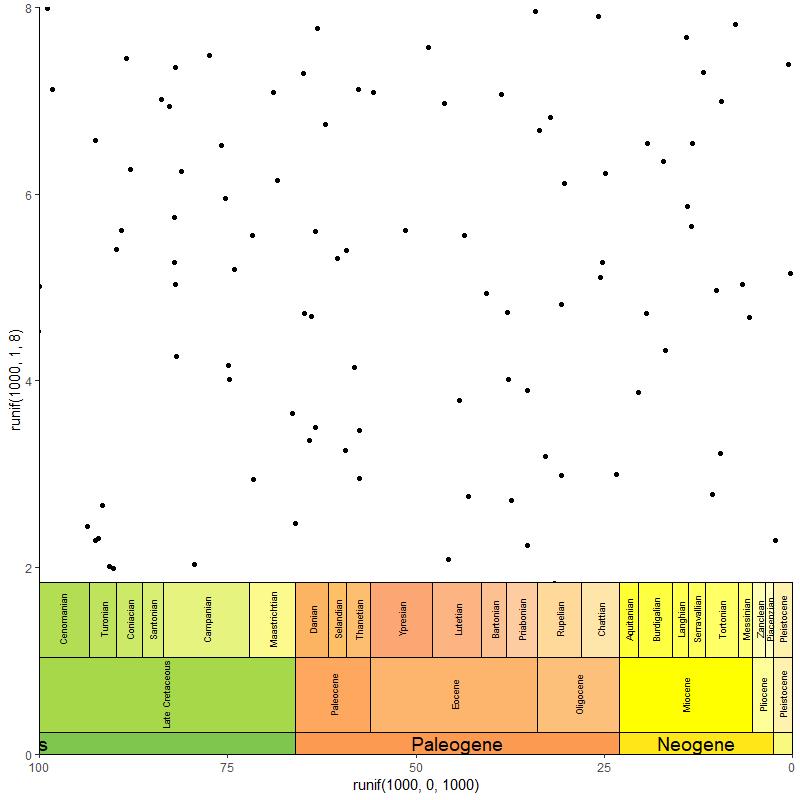
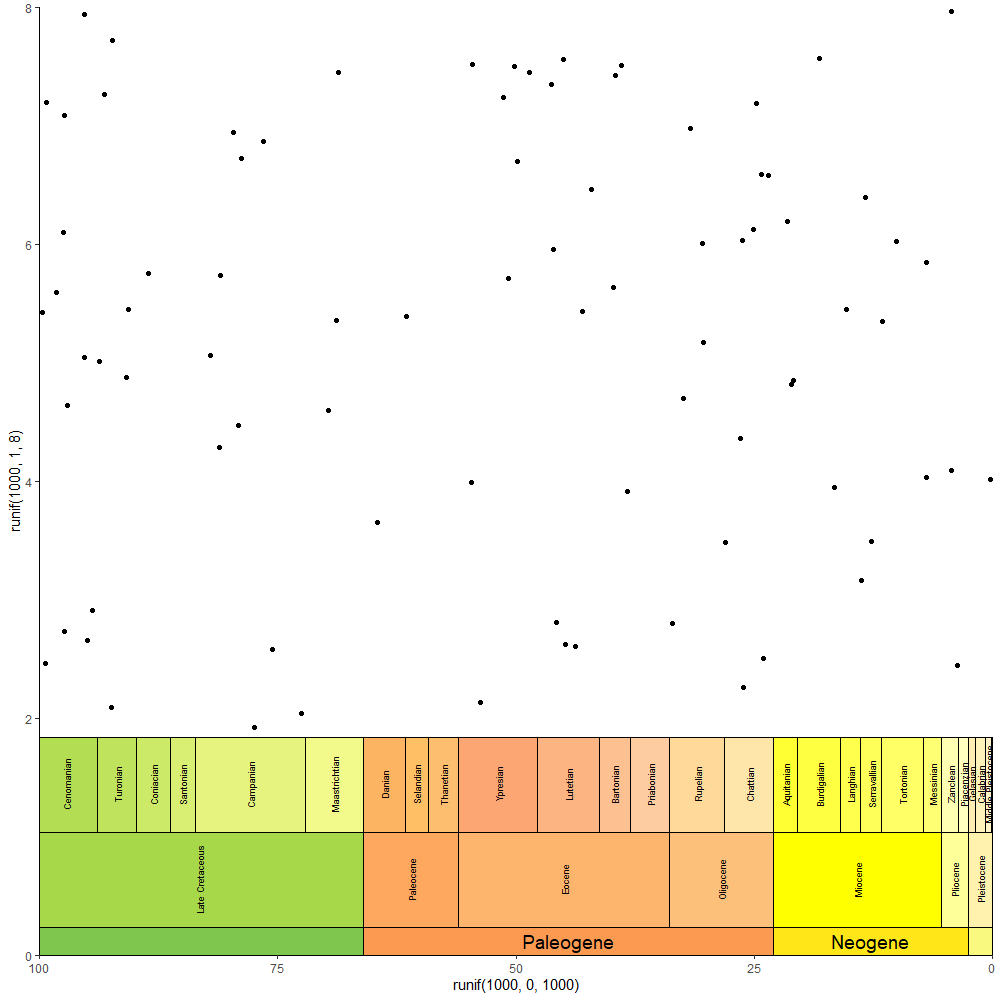
Update stack example

diff --git a/README.md b/README.md
@@ -47,8 +47,8 @@ p <- ggplot() +
   coord_cartesian(xlim = c(0, 100), ylim = c(0,8), expand = FALSE) +
   theme_classic()
 p <- gggeo_scale(p, height = .03, abbrv = FALSE)
-p <- gggeo_scale(p, dat = "epochs", gap = .03, height = .1, rot = 90, size = 3)
-gggeo_scale(p, dat = "stages", gap = .13, height = .1, rot = 90, size = 3)
+p <- gggeo_scale(p, dat = "epochs", gap = .03, height = .1, rot = 90, size = 2.5, abbrv = FALSE)
+gggeo_scale(p, dat = "stages", gap = .13, height = .1, rot = 90, size = 2.5, abbrv = FALSE)
 ```
 
 ![example stacked scales](/images/example_stack.png?raw=true)
